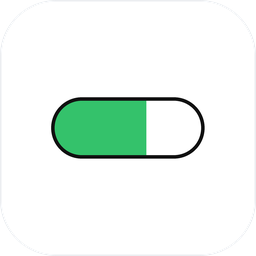
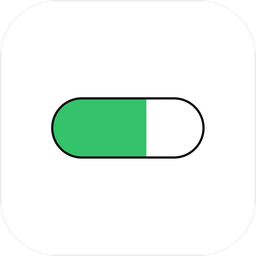
图标描边调细：0.014 → 0.009（512 上约 4.6px）
细到 0.007 在 128 缩略图上会开始断线，0.009 是不糊的下限。

diff --git a/tools/make_icon.py b/tools/make_icon.py
@@ -27,7 +27,7 @@ INK = (17, 17, 17, 255)       # 胶囊描边：纯黑太硬，用近黑
 FILL = (52, 194, 107, 255)    # 亮绿，呼应胶囊态里那个百分比
 RADIUS = int(W * 0.22)        # 圆角方
 STROKE = max(1, int(W * 0.006))
-CAP_STROKE = max(2, int(W * 0.014))
+CAP_STROKE = max(2, int(W * 0.009))
 
 CAP_W_RATIO = 0.60         # 胶囊占画布宽度
 CAP_H_RATIO = 0.24
